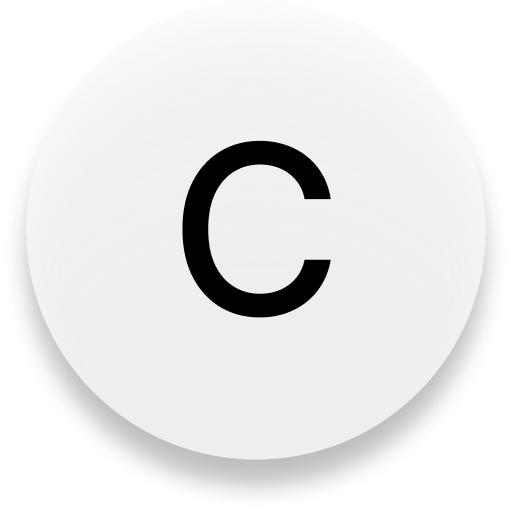
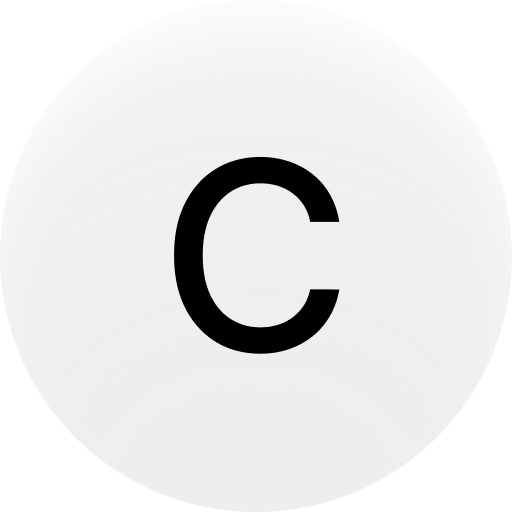
Operations buttons implemented

diff --git a/components/OperationsPanel.js b/components/OperationsPanel.js
@@ -1,67 +1,125 @@
-import React, { useState } from "react";
-import { View, StyleSheet, TouchableOpacity, Image } from "react-native";
-import CButton from "../buttons/CButton";
+import React, { useRef, useState } from "react";
+import {
+  View,
+  StyleSheet,
+  TouchableWithoutFeedback,
+  Image,
+  Animated,
+} from "react-native";
 
 export default function OperationsPanel() {
-  const [opacity, setOpacity] = useState(1);
-  const cButton = require("../assets/CButton.png");
-  return (
-    <View style={styles.buttonsView}>
-      {/* <TouchableHighlight style={styles.buttonTools}>
-        <BlurView style={styles.blurView} intensity={50} tint="light">
-          <LinearGradient
-            colors={["rgba(255, 255, 255, 0.5)", "transparent"]}
-            style={styles.innerShadow}
-          >
-            <Text style={styles.text}>C</Text>
-          </LinearGradient>
-        </BlurView>
-      </TouchableHighlight>*/}
-      <TouchableOpacity
-        activeOpacity={0.5} // Cambia esto según el efecto deseado
-        onPressIn={() => setOpacity(0.5)}
-        onPressOut={() => setOpacity(1)}
-      >
-        <Image
-          source={cButton}
-          style={{ opacity, width: 78, height: 78 }} // Ajusta el tamaño según sea necesario
-        />
-      </TouchableOpacity>
-    </View>
-  );
-}
+  const [pressedButtonId, setPressedButtonId] = useState(null);
+  const operationButtons = [
+    {
+      id: "cButton",
+      image: require("../assets/CButton.png"),
+      animValue: new Animated.Value(1),
+    },
+    {
+      id: "percButton",
+      image: require("../assets/PercentageButton.png"),
+      animValue: new Animated.Value(1),
+    },
+    {
+      id: "suprButton",
+      image: require("../assets/SuprButton.png"),
+      animValue: new Animated.Value(1),
+    },
+    {
+      id: "divButton",
+      image: require("../assets/DivButton.png"),
+      animValue: new Animated.Value(1),
+    },
+    {
+      id: "multButton",
+      image: require("../assets/MultButton.png"),
+      animValue: new Animated.Value(1),
+    },
+    {
+      id: "minusButton",
+      image: require("../assets/MinusButton.png"),
+      animValue: new Animated.Value(1),
+    },
+    {
+      id: "plusButton",
+      image: require("../assets/PlusButton.png"),
+      animValue: new Animated.Value(1),
+    },
+    {
+      id: "equalButton",
+      image: require("../assets/EqualButton.png"),
+      animValue: new Animated.Value(1),
+    },
+  ];
 
+  const renderButtons = () =>
+    operationButtons.map((button) => {
+      const backgroundColor = button.animValue.interpolate({
+        inputRange: [0, 1],
+        outputRange: ["rgba(161, 161, 161, 0.5)", "#F2F2F2"],
+      });
+
+      const onPressIn = () => {
+        Animated.timing(button.animValue, {
+          toValue: 0.3,
+          duration: 30,
+          useNativeDriver: false,
+        }).start();
+      };
+
+      const onPressOut = () => {
+        Animated.timing(button.animValue, {
+          toValue: 1,
+          duration: 150,
+          useNativeDriver: false,
+        }).start();
+      };
+
+      return (
+        <View key={button.id} style={styles.buttonShadow}>
+          <TouchableWithoutFeedback
+            onPressIn={onPressIn}
+            onPressOut={onPressOut}
+          >
+            <Animated.View style={[styles.button, { backgroundColor }]}>
+              <Image source={button.image} style={styles.buttonImage} />
+            </Animated.View>
+          </TouchableWithoutFeedback>
+        </View>
+      );
+    });
+
+  return <View style={styles.buttonsView}>{renderButtons()}</View>;
+}
 const styles = StyleSheet.create({
   buttonsView: {
     display: "flex",
     flexDirection: "row",
     flexWrap: "wrap",
   },
-  innerShadow: {
+  buttonShadow: {
+    width: 70,
+    height: 70,
+    borderRadius: 35,
     justifyContent: "center",
     alignItems: "center",
-    borderRadius: 35,
-  },
-  blurView: {
-    height: 70,
-    width: 70,
-    borderRadius: 35,
-    alignItems: "center",
-  },
-  buttonTools: {
-    height: 70,
-    width: 70,
-    borderRadius: 35,
-    textAlign: "center",
-    backgroundColor: "rgba(176, 176, 176, 0.21)",
-    shadowColor: "#000000",
+    shadowColor: "#000",
     shadowOffset: { width: 0, height: 4 },
     shadowOpacity: 0.25,
-    shadowRadius: 4,
-    justifyContent: "center",
-    alignItems: "center",
-    elevation: 5,
-    overflow: "hidden",
+    shadowRadius: 4,    
+    marginBottom: 10, 
+    backgroundColor: "#FFFFFF", 
+    elevation: 5, // Solo para Android
+  },
+  button: {
+    width: 70,
+    height: 70,
+    borderRadius: 35,
+    overflow: "hidden", // Asegura que la imagen no se salga de los bordes circulares
+  },
+  buttonImage: {
+    width: "100%",
+    height: "100%",
   },
   text: {
     fontSize: 48,
